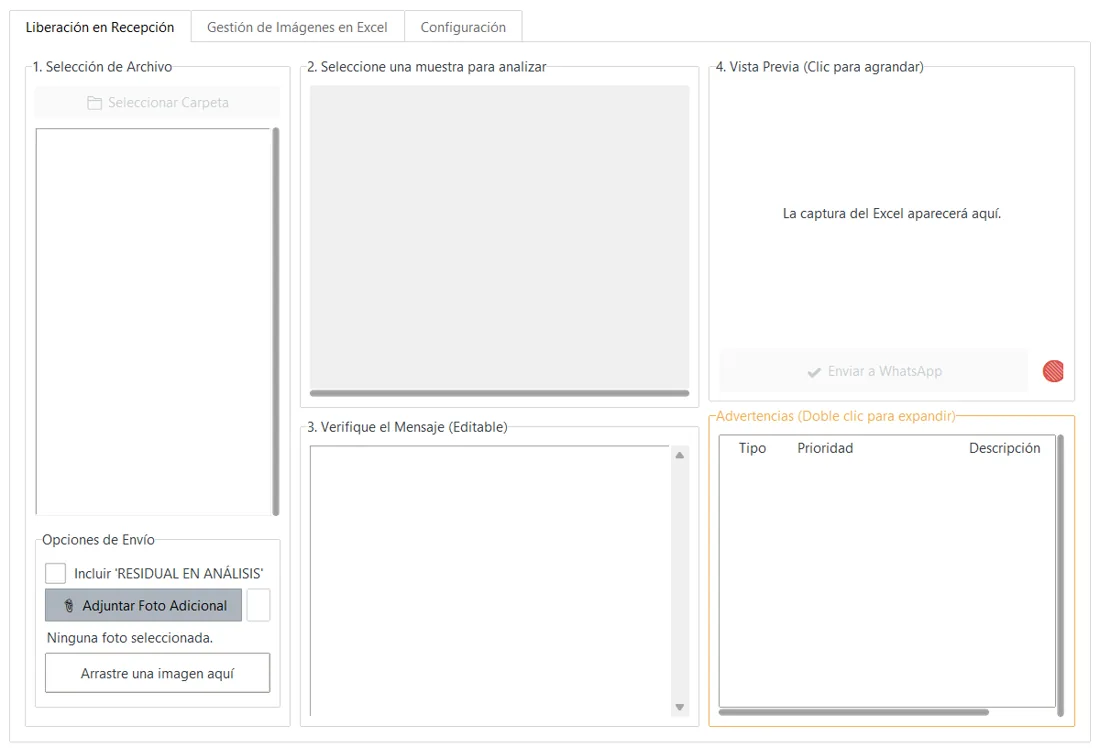
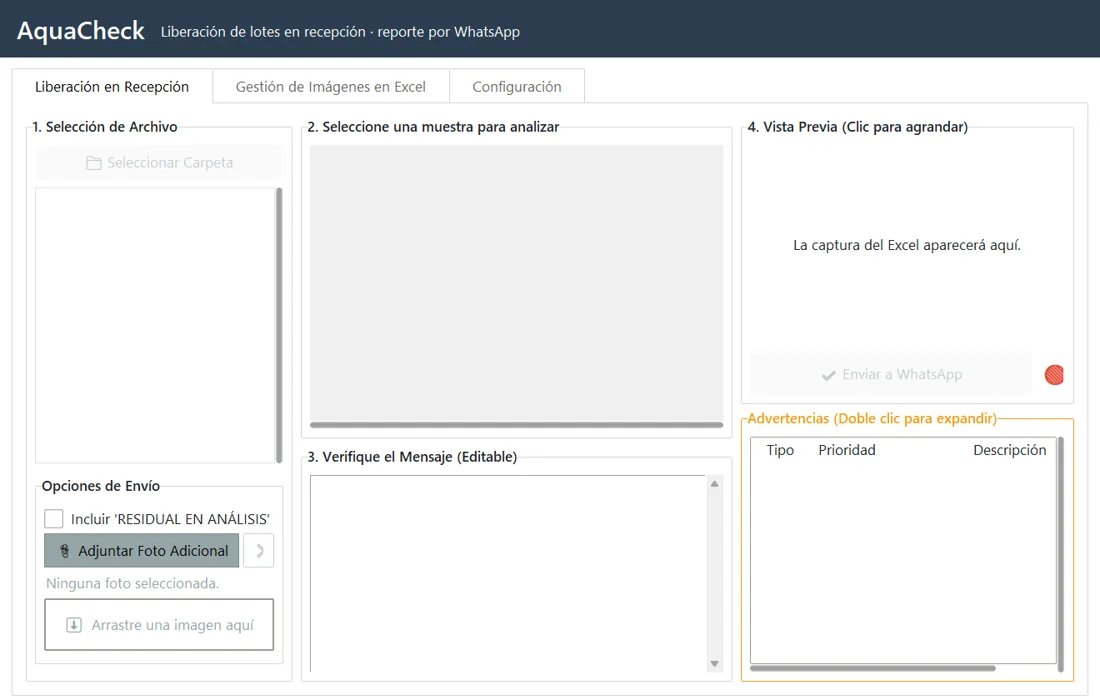
feat: enlaza AquaCheck y el bot de carga al ERP, con capturas de la interfaz renovada

diff --git a/index.html b/index.html
@@ -271,15 +271,17 @@
     <p class="sub es">Programadas en Python para el laboratorio de calidad mientras trabajaba como Monitor de Calidad.</p>
     <p class="sub en">Built in Python for the quality lab while working as a Quality Monitor.</p>
     <div class="tools-grid">
-      <div class="card"><img class="shot" src="img/aquacheck.webp" width="1100" height="748" alt="Ventana principal de AquaCheck" loading="lazy"><h4>AquaCheck</h4>
+      <div class="card"><img class="shot" src="img/aquacheck.webp" width="1100" height="700" alt="Ventana principal de AquaCheck" loading="lazy"><h4>AquaCheck</h4>
         <p class="es">Revisa el análisis de recepción de cada lote, marca los defectos fuera de límite, distingue lotes ASC y convencionales y envía el reporte de liberación con fotos al grupo de calidad por WhatsApp.</p>
-        <p class="en">Reviews each lot's reception analysis, flags out-of-limit defects, distinguishes ASC and conventional lots and sends the release report with photos to the quality team via WhatsApp.</p></div>
+        <p class="en">Reviews each lot's reception analysis, flags out-of-limit defects, distinguishes ASC and conventional lots and sends the release report with photos to the quality team via WhatsApp.</p>
+        <p style="margin-top:10px;font-weight:700;font-size:14px"><a href="https://github.com/rpillasagua95/aquacheck-liberacion-lotes" target="_blank" rel="noopener"><span class="es">Ver el código (versión de portafolio) →</span><span class="en">View the code (portfolio version) →</span></a></p></div>
       <div class="card"><h4><span class="es">Sistema de Reportes Organolépticos</span><span class="en">Sensory Reports System</span></h4>
         <p class="es">Siete reportes: sabores, novedades, análisis mensual, grupos de proveedores, ASC, incidencias de calidad y personalizado.</p>
         <p class="en">Seven reports: flavors, findings, monthly analysis, supplier groups, ASC, quality incidents and custom.</p></div>
-      <div class="card"><img class="shot" src="img/bot-erp.webp" width="1100" height="844" alt="Ventana del bot de carga al ERP" loading="lazy"><h4><span class="es">Bots de carga al portal y al ERP</span><span class="en">Portal and ERP upload bots</span></h4>
+      <div class="card"><img class="shot" src="img/bot-erp.webp" width="900" height="1057" alt="Ventana del bot de carga al ERP" loading="lazy"><h4><span class="es">Bots de carga al portal y al ERP</span><span class="en">Portal and ERP upload bots</span></h4>
         <p class="es">Selenium y PyQt5: cargan los análisis desde Excel al portal web de la empresa y al ERP Libra (SO₂ residual y pruebas de resistencia).</p>
-        <p class="en">Selenium and PyQt5: load lab results from Excel into the company web portal and the Libra ERP (residual SO₂ and resistance tests).</p></div>
+        <p class="en">Selenium and PyQt5: load lab results from Excel into the company web portal and the Libra ERP (residual SO₂ and resistance tests).</p>
+        <p style="margin-top:10px;font-weight:700;font-size:14px"><a href="https://github.com/rpillasagua95/bot-carga-erp" target="_blank" rel="noopener"><span class="es">Ver el código (versión de portafolio) →</span><span class="en">View the code (portfolio version) →</span></a></p></div>
       <div class="card"><img class="shot" src="img/resistencias.webp" width="1100" height="739" alt="Formulario de nueva prueba de resistencia" loading="lazy"><h4><span class="es">App de pruebas de resistencia</span><span class="en">Resistance-testing app</span></h4>
         <p class="es">App web instalable para registrar las pruebas de resistencia del camarón, con modo sin conexión, autoguardado, sincronización al volver la señal e inicio de sesión corporativo (Azure AD). Datos en Firestore y fotos en OneDrive.</p>
         <p class="en">Installable web app to record shrimp resistance tests, with offline mode, autosave, background sync and corporate sign-in (Azure AD). Data in Firestore, photos in OneDrive.</p>
@@ -289,8 +291,8 @@
         <p class="en">Analysis search with SQLite and a thawed-product checker against technical specifications, with installers (PyInstaller). I later rebuilt it as an installable web app (Next.js) that validates sizes, defects and weights in real time.</p>
         <p style="margin-top:10px;font-weight:700;font-size:14px"><a href="https://github.com/rpillasagua95/analisis-descongelado-qms" target="_blank" rel="noopener"><span class="es">Ver el código (versión de portafolio, datos ficticios) →</span><span class="en">View the code (portfolio version, fictitious data) →</span></a></p></div>
     </div>
-    <p class="note es">AquaCheck, los reportes y los bots son de uso interno. La app de descongelado y la de resistencias tienen una versión de portafolio publicada, sin datos ni configuración de la empresa.</p>
-    <p class="note en">AquaCheck, the reports and the bots are internal. The thawed-product and resistance apps have a published portfolio version, without company data or configuration.</p>
+    <p class="note es">AquaCheck, el bot y las apps de descongelado y resistencias tienen una versión de portafolio publicada, sin datos ni configuración de la empresa. El sistema de reportes organolépticos es de uso interno.</p>
+    <p class="note en">AquaCheck, the bot and the thawed-product and resistance apps have a published portfolio version, without company data or configuration. The sensory reports system is internal.</p>
   </section>
 
   <section id="experiencia">
